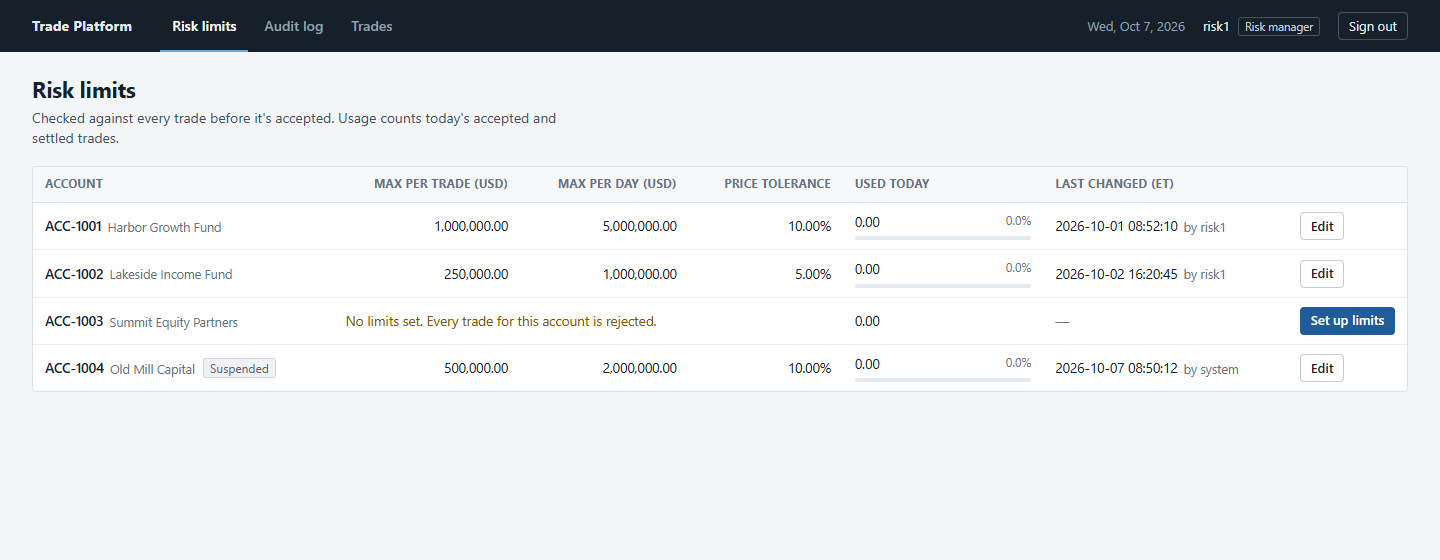
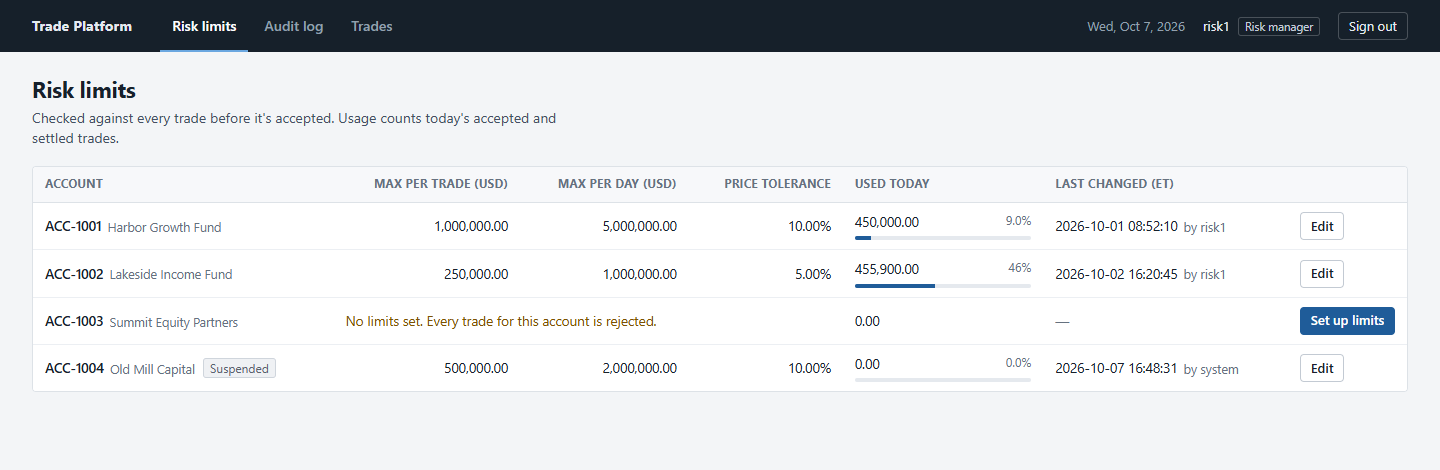
Update README and refresh screenshots
Shorter README: what it does, features, stack, running it (Windows
PowerShell first, with .\mvnw.cmd and npm.cmd, plus macOS/Linux and
Docker), local demo users with their entitled accounts, tests, and the
five decisions most worth explaining.

Screenshots are retaken from the final UI and cut down to the four the
README shows (trades, trade detail, new trade, risk limits).

Design notes gain sections on account entitlements and the Docker
setup.

diff --git a/README.md b/README.md
@@ -1,176 +1,145 @@
-# Trade Processing Platform
+# Trade Processing & Risk Platform
 
-A simplified version of what happens to an equity trade after someone books it. The trade is
-validated, checked against the account's risk limits, accepted or rejected with a reason, and
-settled one business day later. Every step is recorded, so you can always see what happened to
-a trade and who did it.
-
-I built this to learn how a system like this handles the parts that matter more than the happy
-path: duplicate requests, two people changing the same thing at once, audit trails, and making
-sure each role can only do what it's supposed to.
+A simplified version of what happens to a US equity trade after a trader books it. The trade is
+checked against the trader's account entitlements and the account's risk limits, then accepted
+or rejected with a reason, and settled one business day later (T+1). Every step is recorded, so
+you can always see what happened to a trade, who did it and why.
 
 ![Trades page](docs/screenshots/trades.png)
 
-## What it does
+## Features
 
-- **Trade entry**: traders book buy/sell trades for an account and a US stock. The form shows the
-  notional and settlement date before submitting.
-- **Validation and risk checks**: suspended accounts and untradable instruments are rejected,
-  then three per-account limits are checked: price close enough to the reference price, max
-  notional per trade, and max notional per day.
-- **Lifecycle and history**: every status change is stored with a timestamp, the user (or
-  `system`) and a reason, and shown as a timeline on the trade page.
-- **Risk limit management**: risk managers can set and change limits. Every change records the
-  old value, new value, who changed it and why, in an audit log.
-- **Settlement**: a scheduled job settles accepted trades on their settlement date (T+1).
-  Operations can also run it by hand.
-- **Cancellations**: operations can cancel an accepted trade before it settles, with a reason.
-- **Duplicate protection**: resubmitting the same trade (say, after a timeout) returns the
-  original instead of booking it twice.
+- **Trade lifecycle**: `RECEIVED → VALIDATED → ACCEPTED → SETTLED`, or `REJECTED` / `CANCELLED`
+  with a reason. Each trade has a timeline of every status change.
+- **Risk controls**: per-account limits on price (vs. a reference price), notional per trade and
+  notional per day. Risk managers can change them, with a required reason.
+- **Account entitlements**: traders can only book trades on the accounts they're assigned to.
+- **Duplicate protection**: resubmitting the same trade (after a timeout, say) returns the original
+  instead of booking it twice.
+- **Audit trail**: every risk limit change records the old value, the new value, who changed it and why.
+- **Settlement**: a scheduled job settles accepted trades on their settlement date. Operations can
+  also run it by hand.
+- **Role-based access**: traders, operations and risk managers each get their own pages and
+  actions, enforced by the backend.
 
-## Trade lifecycle
+| Trade detail | New trade | Risk limits |
+|---|---|---|
+| ![Trade detail](docs/screenshots/trade-detail.png) | ![New trade](docs/screenshots/new-trade.png) | ![Risk limits](docs/screenshots/risk-limits.png) |
 
+## Tech stack
+
+Java 21, Spring Boot 4 (Web MVC, Data JPA, Security), PostgreSQL 17, Flyway, React 19 with
+TypeScript and Vite, JUnit 5 with Testcontainers, Vitest, Docker Compose, GitHub Actions.
+
+## Running locally
+
+### With Docker (easiest)
+
+Needs Docker Desktop. This builds and starts the database, backend and frontend:
+
+```powershell
+docker compose up --build
 ```
-RECEIVED ──> VALIDATED ──> ACCEPTED ──> SETTLED
-    │            │             │
-    └> REJECTED <┘             └──> CANCELLED
+
+Then open http://localhost:3000. The first build takes a few minutes. Stop it with `Ctrl+C`, and
+use `docker compose down -v` if you want to start over with fresh demo data.
+
+### Running the backend and frontend yourself
+
+Needs JDK 21, Node 22+ and Docker Desktop (for the database).
+
+**Windows (PowerShell)**: run one line at a time from the project folder (Windows PowerShell
+doesn't support `&&`).
+
+```powershell
+docker compose up -d postgres
+cd backend
+.\mvnw.cmd spring-boot:run
 ```
 
-A rejected trade is still stored (and the API returns 201), because the trade was recorded and
-rejecting it is a normal outcome. A request that's malformed or refers to an account or symbol
-that doesn't exist is a 400 and nothing is stored.
+Then, in a second PowerShell window, from the project folder:
 
-| A rejected trade | An accepted one, waiting to settle |
-|---|---|
-| ![Rejected trade](docs/screenshots/trade-rejected.png) | ![Accepted trade](docs/screenshots/trade-accepted.png) |
+```powershell
+cd frontend
+npm.cmd install
+npm.cmd run dev
+```
 
-## Roles
+(`npm.cmd` works even when PowerShell's execution policy blocks `npm.ps1`. Plain `npm` is fine if
+your policy allows it.)
 
-| Role         | Can                                             | Sees            |
-|--------------|-------------------------------------------------|-----------------|
-| Trader       | Submit trades                                   | Their own trades |
-| Operations   | Cancel accepted trades, run settlement          | All trades      |
-| Risk manager | Set and change risk limits, read the audit log  | All trades      |
-
-The UI only shows each role its own pages, but every rule is enforced by the backend.
-The rules are all in `SecurityConfig`.
-
-## Stack
-
-- **Backend**: Java 21, Spring Boot 4 (Web MVC, Data JPA, Security, Validation), Flyway, PostgreSQL 17
-- **Frontend**: React 19, TypeScript, React Router, Vite. Plain CSS with no component library.
-- **Tests**: JUnit 5 with Testcontainers (real Postgres), Vitest and Testing Library
-- **Tooling**: Maven wrapper, Docker Compose for the local database, GitHub Actions
-
-## Running it locally
-
-You need JDK 21, Node 22+ and Docker.
+**macOS / Linux**:
 
 ```bash
-docker compose up -d                 # Postgres on localhost:5432
-
-cd backend
-./mvnw spring-boot:run               # API on localhost:8080
-
-cd frontend
-npm install
-npm run dev                          # UI on http://localhost:5173
+docker compose up -d postgres
+cd backend && ./mvnw spring-boot:run
+cd frontend && npm install && npm run dev    # in a second terminal
 ```
 
-The first start loads a few days of sample trades, so there's something to look at.
+Open http://localhost:5173. Either way, the database starts with a few days of sample trades.
 
 ### Demo users
 
-All use the password `demo-pass`.
+These are **local demo credentials** created by a database migration. All use the password `demo-pass`.
 
-| User      | Role         |
-|-----------|--------------|
-| `trader1` | Trader       |
-| `trader2` | Trader (to check traders can't see each other's trades) |
-| `ops1`    | Operations   |
-| `risk1`   | Risk manager |
+| User      | Role         | Entitled accounts            |
+|-----------|--------------|------------------------------|
+| `trader1` | Trader       | ACC-1001, ACC-1002, ACC-1004 |
+| `trader2` | Trader       | ACC-1002, ACC-1003, ACC-1004 |
+| `ops1`    | Operations   | (doesn't book trades)        |
+| `risk1`   | Risk manager | (doesn't book trades)        |
 
-Things worth trying:
+Some things to try: as `trader1`, book 5,000 AAPL on ACC-1002 to see a risk rejection; as `ops1`,
+run settlement; as `risk1`, change a limit and look at the audit log.
 
-1. As `trader1`, book a trade that goes over a limit (e.g. 5,000 AAPL on ACC-1002) to see the rejection, then use "Amend and resubmit".
-2. As `ops1`, run settlement: the sample trades from the last business day are due today (on a weekday) and settle.
-3. As `risk1`, change a limit and check the audit log.
+## Testing
 
-## Tests
+Windows PowerShell, from the project folder:
 
-```bash
-cd backend && ./mvnw test            # needs Docker running (Testcontainers)
-cd frontend && npm test
+```powershell
+cd backend
+.\mvnw.cmd test
 ```
 
-The backend tests run against a real Postgres in a container, because several of them are
-about row locks and unique constraints, which an in-memory database wouldn't behave the same
-way for. A test clock replaces the real one, so "today" is whatever a test says it is.
+```powershell
+cd frontend
+npm.cmd test
+npm.cmd run lint
+npm.cmd run typecheck
+```
 
-## Some decisions worth explaining
+On macOS/Linux use `./mvnw test` and `npm test`. The backend tests start a real Postgres in Docker
+(Testcontainers), so Docker needs to be running. GitHub Actions runs both suites, the frontend
+lint/type-check/build, and the Docker image builds on every push.
 
-**Locking for the daily limit.** Two trades for the same account arriving together could both
+## Interesting engineering decisions
+
+**Concurrent daily limit checks.** Two trades for the same account arriving together could both
 read the same "used today" total and both pass. The risk check locks the account's limit row
-(`SELECT ... FOR UPDATE`) so checks for one account run one at a time. A test fires 8 trades at
-once against a limit that fits 4. Without the lock all 8 got accepted.
+(`SELECT ... FOR UPDATE`), so checks for one account run one at a time. A test fires 8 trades at
+once against a limit that only fits 4; without the lock, all 8 were accepted.
 
-**Duplicate submissions.** The trade form generates a `clientTradeId` once per trade, not per
-click. Submitting the same one again returns the original trade. If two identical requests
-race past the "does it exist?" lookup, a unique constraint stops the second insert and the
-service returns the trade the first one created.
+**Duplicate requests.** The trade form generates a `clientTradeId` once per trade, not per click.
+Sending the same one again returns the original trade. If two identical requests race past the
+"does it exist?" lookup, a unique constraint stops the second insert and the first trade is returned.
 
-**Settlement can run twice.** The job settles each trade in its own transaction and re-checks
-the status inside it, and `@Version` on the trade catches a cancel and a settle racing each
-other. Running it again finds nothing to do. A test runs three settlement jobs at the same time
-and checks every trade settled exactly once.
+**Settlement can run twice.** Each trade settles in its own transaction, its status is re-checked
+inside it, and `@Version` on the trade catches a cancel and a settle racing each other. A test
+runs three settlement jobs at the same time and checks every trade settled exactly once.
 
-**Two risk managers editing at once.** A limit edit sends the version it loaded. If someone else
-saved first, the second person gets a 409 that says who changed it, instead of silently
-overwriting their change.
+**Entitlements are checked before anything else.** Including the duplicate lookup, so resubmitting
+an existing trade can't get around them. An account code that doesn't exist gets the same 403
+as one you aren't entitled to, so the API doesn't reveal which accounts exist.
 
-**Sessions instead of JWT.** There's one backend, so I used Spring Security's normal session login
-with an HttpOnly cookie rather than storing tokens in the browser. CSRF protection stays on,
-using a cookie the frontend sends back as a header.
-
-**Time zones.** Trade dates are New York business dates, and the UI shows timestamps in New York
-time (labelled ET). Otherwise a trade booked at 9pm ET would look like next day's trade to
-someone in Europe.
+**Sessions instead of JWT.** There's one backend, so login uses Spring Security's normal server-side
+session with an HttpOnly cookie rather than a token stored in the browser. Because the session is
+a cookie, CSRF protection stays on.
 
 More detail is in [docs/design-notes.md](docs/design-notes.md).
 
-## What's not done
+## Not done yet
 
-- Accounts aren't assigned to traders, so any trader can book on any account.
-- Market holidays aren't modeled, only weekends.
-- No user management or login rate limiting; the demo users come from a migration.
-- Validation and risk checks run inside the submit request. If they had to call slower external
-  systems, I'd move them to a background worker with retries.
-- Not deployed anywhere yet.
-
-## Project layout
-
-```
-backend/src/main/java/com/tradeplatform/
-  trade/        trade entity, lifecycle, submission, queries
-  risk/         risk checks, limit editing, audit records
-  settlement/   scheduled settlement job
-  security/     login, roles, SecurityConfig
-  account/, instrument/, common/
-backend/src/main/resources/db/
-  migration/    Flyway schema migrations
-  demo/         sample data for local runs
-frontend/src/
-  pages/        one file per screen
-  components/   layout and shared UI pieces
-  api/          fetch wrapper and types
-```
-
-<details>
-<summary>More screenshots</summary>
-
-![New trade](docs/screenshots/new-trade.png)
-![Risk limits](docs/screenshots/risk-limits.png)
-![Audit log](docs/screenshots/audit-log.png)
-![Settlement](docs/screenshots/settlement.png)
-
-</details>
+- No market holiday calendar (weekends are skipped, holidays aren't).
+- No login rate limiting, user management or screen for editing entitlements; users and
+  entitlements come from migrations.
+- Not deployed anywhere.

diff --git a/docs/design-notes.md b/docs/design-notes.md
@@ -128,6 +128,25 @@ All the URL rules are in `SecurityConfig`. The frontend hides what a role can't 
 backend checks every request regardless. A trader asking for another trader's trade gets 404,
 not 403, so trade ids can't be probed.
 
+## Account entitlements
+
+Roles say what kind of thing someone can do; entitlements say which accounts a trader can do
+it on. It's one join table, `account_entitlement (user_id, account_id)`, mapped as a
+`@ManyToMany` on `AppUser`. There's no generic permissions model because nothing else needs one.
+
+- Submitting a trade checks the entitlement first, before the duplicate lookup, so resubmitting
+  an existing `clientTradeId` can't be used to get around it.
+- An account code that doesn't exist gets the same 403 as one the trader isn't entitled to, so
+  the API can't be used to find out which accounts exist.
+- `GET /api/accounts` only returns a trader's own accounts, which is also what fills the dropdown
+  on the trade form. Operations and risk managers see every account.
+- If an entitlement is removed, the trader can't book on that account any more but can still see
+  the trades they booked on it before.
+- A refused trade isn't stored as REJECTED. Rejections are for trades someone was allowed to
+  book; this is an access check, so it's a 403 and nothing is saved.
+
+Entitlements come from a migration; there's no admin screen for them.
+
 ## Input limits
 
 Found by poking at the API with curl:
@@ -144,9 +163,16 @@ to today's date, so a fresh database has something to show (including settled tr
 otherwise wouldn't appear until the next day). It only runs against empty tables and tests
 don't load it.
 
+## Docker
+
+`docker compose up --build` runs three containers: Postgres, the backend jar, and nginx serving
+the built React app. nginx also forwards `/api` to the backend, so the browser sees a single
+origin, the same as with the Vite dev server's proxy. That matters because login uses a session
+cookie and a CSRF cookie. The backend image skips tests because they need Docker themselves
+(Testcontainers); CI runs them.
+
 ## Not done
 
-- Accounts aren't assigned to traders, so any trader can book on any account.
 - No market holiday calendar.
 - No login rate limiting, password changes or user management; users come from a migration.
 - Processing is synchronous. A background worker with retries would be the next step if the
